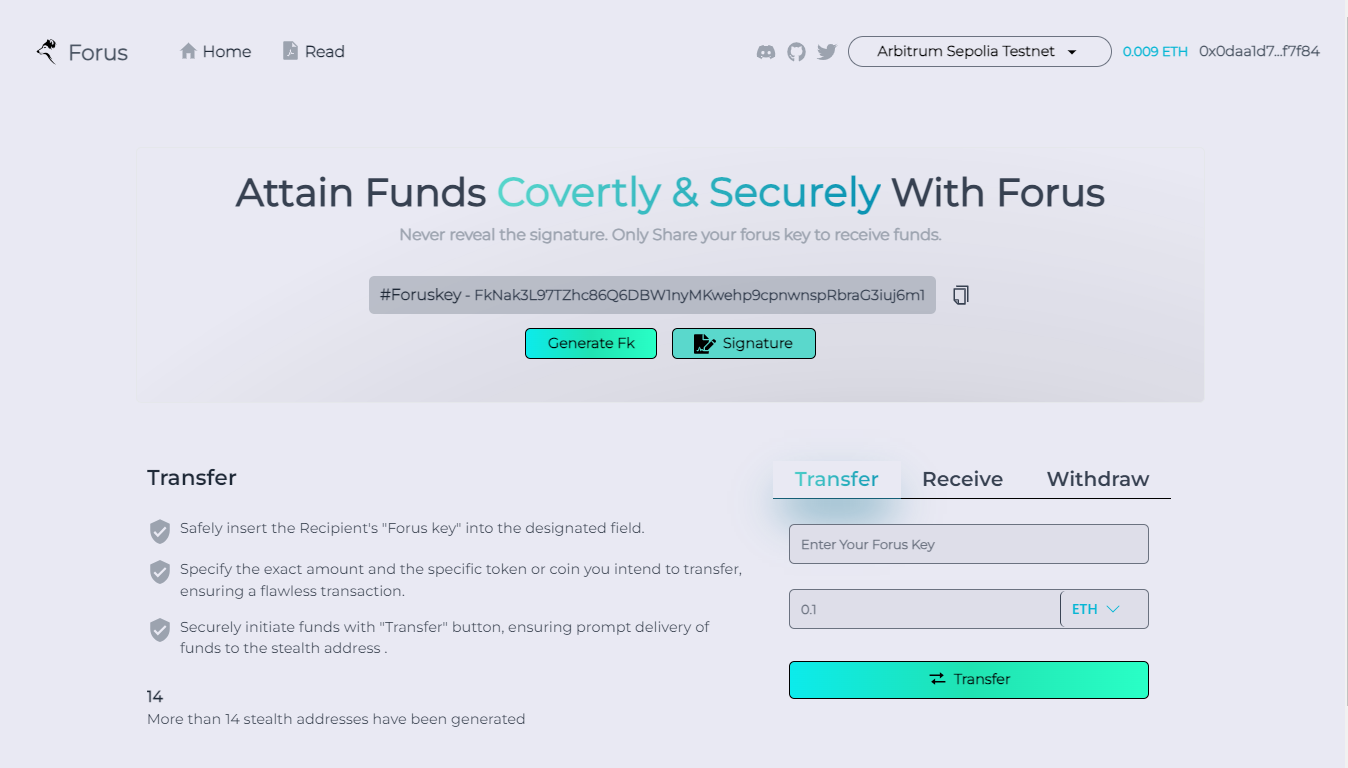
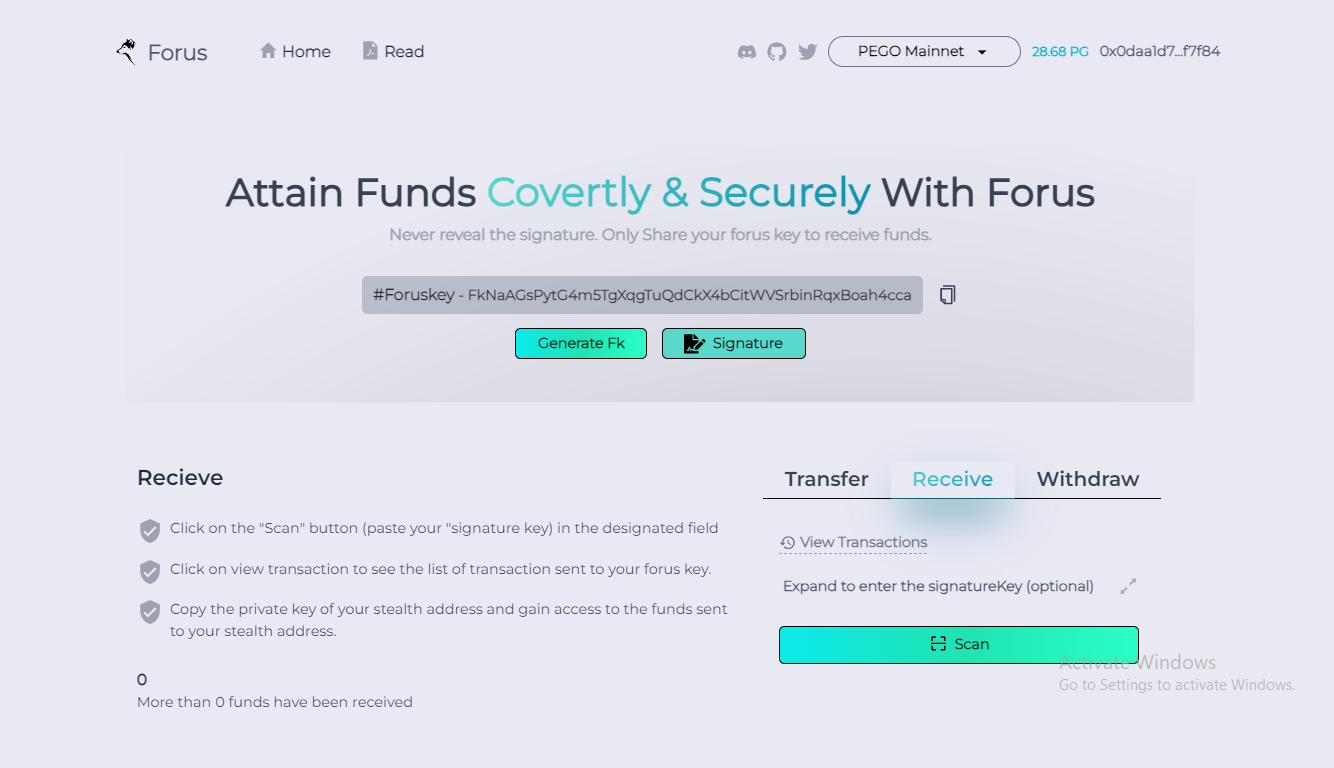
deploying on mainnet

diff --git a/Forus/src/main/Instruction.tsx b/Forus/src/main/Instruction.tsx
@@ -18,23 +18,23 @@ const Instruction = (props: Props) => {
             </h1>
             <div className="py-4 montserrat-heading  text-gray-800 flex flex-col gap-4 items-start">
               <div className="flex space-x-2 ">
-                <MdVerifiedUser className="text-gray-400  "size={29} />
+                <MdVerifiedUser className="text-gray-500  "size={29} />
                 <p className="flex-1">
-                  Safely insert the Recipient's "Forus key" into the designated
+                  Safely insert the Recipient's <b>Forus key</b> into the designated
                   field.
                 </p>
               </div>
               <div className="flex space-x-2">
-                <MdVerifiedUser className="text-gray-400  "size={29} />
+                <MdVerifiedUser className="text-gray-500  "size={29} />
                 <p className="flex-1">
                   Specify the exact amount and the specific token or coin you
                   intend to transfer, ensuring a flawless transaction.
                 </p>
               </div>
               <div className="flex space-x-2">
-                <MdVerifiedUser className="text-gray-400  "size={29} />
+                <MdVerifiedUser className="text-gray-500  "size={29} />
                 <p className="flex-1">
-                  Securely initiate funds with "Transfer" button, ensuring
+                  Securely initiate funds with Transfer button, ensuring
                   prompt delivery of funds to the  stealth address .
                 </p>
               </div>
@@ -51,25 +51,24 @@ const Instruction = (props: Props) => {
             {" "}
             {/* on Accept */}
             <h1 className="montserrat-subheading text-gray-800 font-semibold text-[1.5rem]">
-              Recieve
+              Receive
             </h1>
             <div className="py-4 montserrat-heading text-gray-800 flex flex-col gap-4 items-start">
               <div className="flex space-x-2">
-                <MdVerifiedUser className="text-gray-400  "size={29} />
+                <MdVerifiedUser className="text-gray-500  "size={29} />
                 <p className="flex-1">
-                  Click on the "Scan" button (paste your "signature
-                  key) in the designated field
+                  Click on the <b>Scan</b> button , paste your <b>Signature key</b> in the designated field
                 </p>
               </div>
               <div className="flex space-x-2">
-                <MdVerifiedUser className="text-gray-400  "size={29} />
+                <MdVerifiedUser className="text-gray-500  "size={29} />
                 <p className="flex-1">
                   Click on view transaction to see the list of transaction sent to your forus key.
                 </p>
               </div>
 
               <div className="flex space-x-2">
-                <MdVerifiedUser className="text-gray-400  "size={29} />
+                <MdVerifiedUser className="text-gray-500  "size={29} />
                 <p className="flex-1">
                   Copy the private key of your stealth address and gain access to the funds sent to your
                   stealth address.
@@ -92,24 +91,20 @@ const Instruction = (props: Props) => {
             </h1>
             <div className="py-4 montserrat-heading  text-gray-800 flex flex-col gap-4 items-start">
               <div className="flex space-x-2">
-                <MdVerifiedUser className="text-gray-400  "size={29} />
+                <MdVerifiedUser className="text-gray-500  "size={29} />
                 <p className="flex-1">
-                  Click on the "Withdraw" button to send the funds from your stealth address to real address.
+                Load your #wallet-privateKey to help you withdraw funds easily . If already loaded ✔. Cool! 
+                just pass the receipent address or use the connected wallet as receipent!
                 </p>
               </div>
               <div className="flex space-x-2">
-                <MdVerifiedUser className="text-gray-400  "size={29} />
+                <MdVerifiedUser className="text-gray-500  "size={29} />
                 <p className="flex-1">
-                  Connect your current wallet or (load your " stealth address's private key)
+                  Click on the "Withdraw" button to withdraw funds from stealth address to  other wallet address.
                 </p>
               </div>
 
-              <div className="flex space-x-2">
-                <MdVerifiedUser className="text-gray-400  "size={29} />
-                <p className="flex-1">
-                  Sign the mesage  ! Relayer would pay fee on behalf of you.
-                </p>
-              </div>
+
             </div>
             <div className="montserrat-heading  text-gray-800 ">
               <h4 className="font-semibold text-[1.1rem]"> {sumofAddress}</h4>

diff --git a/Forus/src/main/NavBar.tsx b/Forus/src/main/NavBar.tsx
@@ -69,7 +69,7 @@ const NavBar = (props: Props) => {
                md:items-end space-x-1 sm:ml-14 ml-9  text-gray-600 
                 montserrat-subtitle underline-offset-8 font-bold hover:underline decoration-bgGray  sm:text-[1.1rem] text-[0.8rem]"
             >
-              <IoMdHome size={23} className="md:self-start  text-gray-400 " />
+              <IoMdHome size={23} className="md:self-start  text-gray-500 " />
               <p className="sm:inline-flex hidde text-gray-800  n">Home</p>
             </button>
 
@@ -83,7 +83,7 @@ const NavBar = (props: Props) => {
             >
               <AiFillFilePdf
                 size={23}
-                className="md:self-start text-gray-400   "
+                className="md:self-start text-gray-500   "
               />
               <p className="sm:inline-flex hidden text-gray-800 ">Read</p>
             </div>
@@ -94,21 +94,21 @@ const NavBar = (props: Props) => {
         <div className="sm:flex-row flex space-x-3 items-center">
           {/* Social Links */}
           <div className="lg:flex space-x-3 items-center hidden">
-              <p className=" text-gray-400 ">
-                <a href="https://discord.gg/keQnv2K8HP">
-                  <FaDiscord size={22} />
-                </a>
-              </p>
-              <p className="  text-gray-400  ">
-                <a href="https://github.com/TheForus">
-                  <FaGithub size={22} />
-                </a>
-              </p>
-              <p className="  text-gray-400  ">
-                <a href="https://twitter.com/The_Forus">
-                  <FaTwitter size={22} />
-                </a>
-              </p>
+            <p className=" text-gray-500 ">
+              <a href="https://discord.gg/keQnv2K8HP">
+                <FaDiscord size={22} />
+              </a>
+            </p>
+            <p className="  text-gray-500  ">
+              <a href="https://github.com/TheForus">
+                <FaGithub size={22} />
+              </a>
+            </p>
+            <p className="  text-gray-500  ">
+              <a href="https://twitter.com/The_Forus">
+                <FaTwitter size={22} />
+              </a>
+            </p>
 
             {sessionStorage.getItem("address") !== null && (
               <div
@@ -129,16 +129,16 @@ const NavBar = (props: Props) => {
                   </li>
                   <div
                     className={`
-              ${
-                show &&
-                `transition-all ease-in py-2 border-none  shadow-md flex flex-col
+              ${show &&
+                      `transition-all ease-in py-2 border-none  shadow-md flex flex-col
                  rounded-b-md absolute ml-1 mt-1 text-black bg-bgGray z-10 `
-              }
+                      }
             `}
                   >
                     {show &&
                       connect.chainOptions.map((chain: any) => (
                         <div className=" hover:bg-slate-500">
+                
                           <li
                             className="flex flex-row-reverse p-1 px-4 cursor-pointer
                            font-semibold
@@ -189,8 +189,8 @@ const NavBar = (props: Props) => {
               >
                 {sessionStorage.getItem("address") !== null || false
                   ? `${sessionStorage
-                      .getItem("address")
-                      ?.slice(0, 9)}...${sessionStorage
+                    .getItem("address")
+                    ?.slice(0, 9)}...${sessionStorage
                       .getItem("address")
                       ?.slice(-5)}`
                   : ""}
@@ -202,9 +202,8 @@ const NavBar = (props: Props) => {
               />
             ) : (
               <AiOutlineCopy
-                className={`${
-                  isAddrHovered ? "inline-flex" : "hidden"
-                } text-gray-600 font-bold text-[1.1rem] "text-gray-600 `}
+                className={`${isAddrHovered ? "inline-flex" : "hidden"
+                  } text-gray-600 font-bold text-[1.1rem] "text-gray-600 `}
               />
             )}
           </div>

diff --git a/Forus/src/helper/ChainOptions.tsx b/Forus/src/helper/ChainOptions.tsx
@@ -1,15 +1,13 @@
-import apothem from "../assets/chains/apothem.png";
+// import apothem from "../assets/chains/apothem.png";
 import goerli from "../assets/chains/goerli.png";
-import sepolia from "../assets/chains/sepolia.jpeg";
+// import sepolia from "../assets/chains/sepolia.jpeg";
 import fantom from "../assets/chains/fantomTestnet.png";
-
-
 import USDT from '../assets/usdt.png'
 import pego from "../assets/pego.png"
 import link from "../assets/link.png"
 import dai from "../assets/dai.png"
 import eth from "../assets/eth.png"
-import xdc from "../assets/chains/apothem.png"
+// import xdc from "../assets/chains/apothem.png"
 import ftm from "../assets/chains/fantomTestnet.png"
 import arb from "../assets/chains/ARB.png"
 import avax from "../assets/avax.png"
@@ -67,28 +65,6 @@ export const chainOptions: chain[] = [
         ]
     },
 
-
-    {
-        name: "Sepolia Testnet ", contract: '0x021CC9B8A9Cb9d677cC403cB81F44a689739E2Aa', chainId: "0xaa36a7", symbol: sepolia, currency: { symbol: "ETH", decimals: 18 }, rpcs: ['https://rpc2.sepolia.org'], url: "https://sepolia.etherscan.io/tx/", tokens: [
-
-            { name: "ETH", address: "", symbol: eth },
-            { name: "USDT", address: "0x36160274b0ed3673e67f2ca5923560a7a0c523aa", symbol: USDT },
-            { name: "DAI", address: "0x82fb927676b53b6ee07904780c7be9b4b50db80b", symbol: dai },
-
-
-        ]
-    },
-    {
-        name: "Apothem Testnet", contract: '0x3957018eC2835E8B969245291850575064eCe716', chainId: "0x33", symbol: apothem, currency: { symbol: "TXDC", decimals: 18 }, rpcs: ['https://apothem.xdcrpc.com'], url: "https://apothem.xdcrpc.com", tokens: [
-
-            { name: "XDC", address: "", symbol: xdc },
-            { name: "USDC", address: "0x499f9320079c3a5dd30af691ea1a88e8c75fda17", symbol: link },
-            { name: "USDT", address: "0xccdc0653935a251b6839f30359917977f994b5d9", symbol: USDT },
-            { name: "DAI", address: "0xe46554ad93a7046c85f2da0c20ebd68e41f11b36", symbol: dai },
-
-
-        ]
-    },
     {
         name: "Fantom Testnet", contract: '0x9c08ecf2B23C8d18dF2ec7e38c09e0C04649D7f4', chainId: "0xfa2", symbol: fantom, currency: { symbol: "FTM", decimals: 18 }, rpcs: ['https://rpc.testnet.fantom.network'], url: "https://explorer.testnet.fantom.network/transactions/", tokens: [
 

diff --git a/Forus/src/front-page/Header.tsx b/Forus/src/front-page/Header.tsx
@@ -8,12 +8,12 @@ const Header = () => {
     <>
       <div
         className="bg-[#e9e9f3] xl:px-36 md:px-22 px-8 sm:py-27 py-16 flex
-          justify-between items-center md:flex-row flex-col space-y-1"
+          justify-between items-center md:flex-row flex-col space-y-1 text-gray-700"
       >
         {/* left side */}
         <div className="flex flex-col items-start space-y-4 ml-6  md:w-[100%]">
           {/* features  texts */}
-          <div className="flex space-x-4 items-center">
+          <div className="flex montserrat-heading font-semibold space-x-4 items-center">
             {/* inner boxes */}
             <span
               className="p-1 px-8 border-2
@@ -31,19 +31,19 @@ const Header = () => {
 
           <h2
             className="flex text-gray-700 space-y-1 xl:-space-y-2 flex-col montserrat-heading font-extrabold
-            text-left text-[1.4rem] md:text-[1.9rem] xl:text-[2.8rem]"
+            text-left text-[1.2rem] md:text-[1.5rem] xl:text-[2.4rem]"
           >
             {/* Receive Eth and tokens with forus confidentially !! */}
-            <span>Confidential & Secure</span>
+            <span>Anonymous & Secure</span>
             <span>transactions</span>
           </h2>
           <p
-            className="montserrat-small font-semibold pb-1 text-gray-600
+            className="montserrat-heading font-semibold pb-1 text-gray-600
            text-left break-words  max-w-[700px] sm:text-[1.2rem] text-[1rem]"
           >
             {/* Breaking the link between sender and receiver. Safeguard Your
             Financial Interactions with Cutting-edge Cryptography. */}
-            Bringing confidentiality while receiving funds !!!
+            Get funds confidentially without sharing wallet address !!
           </p>
           <button
             className="border-1 montserrat-subtitle  

diff --git a/Forus/src/main/Withdraw.tsx b/Forus/src/main/Withdraw.tsx
@@ -138,7 +138,7 @@ const Withdraw = ({
         seterror('Successfully sent!');
       }
       else {
-        seterror('Insufficient funds to pay gas!!');
+        seterror('Insufficient funds to cover gas fee !');
       }
 
     } catch (err: any) {
@@ -226,7 +226,7 @@ const Withdraw = ({
         </button>
       </div>
 
-      <p className={`text-[0.9rem] font-bold montserrat-small ${error === ' Successfully sent! ' ? ' text-highlight ' : 'text-red-500'}`}>
+      <p className={`text-[1rem] font-bold montserrat-small ${error === ' Successfully sent! ' ? '  text-green-300 ' : 'text-red-500'}`}>
         {error}
       </p>
 

diff --git a/Forus/src/main/Foruskey.tsx b/Forus/src/main/Foruskey.tsx
@@ -138,8 +138,7 @@ const ForusKey = (props: Props) => {
 
 
           <button
-            className="mb-4 my-2 montserrat-subtitle border-1 p-1 montserrat-subtitle border border-black
-         hover:text-highlight hover:border hover:border-highlight px-6 text-center  
+            className="mb-4 my-2 montserrat-subtitle border-1 p-1 montserrat-subtitle border border-blackpx-6 text-center  
          highlight text-black rounded-md font-semibold transition-all ease-linear"
             onClick={Generate}
           >

diff --git a/Forus/src/front-page/Tutorial.tsx b/Forus/src/front-page/Tutorial.tsx
@@ -1,4 +1,3 @@
-import React from "react";
 // import ReactPlayer from 'react-player';
 import ReactPlayer from "react-player/lazy";
 
@@ -22,7 +21,7 @@ const Tutorial = (props: Props) => {
             width="90%"
             height="95%"
             controls={true}
-            url="https://youtu.be/LPRhcdHKfKg"
+            url="https://youtu.be/-hL3nsSy3D4"
           />
         </div>
       </div>
